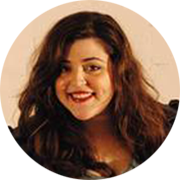
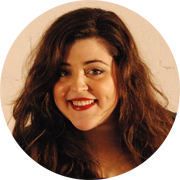
new images for the dancers. new image for company. fixed links to dancer profiles

diff --git a/dancers.html b/dancers.html
@@ -75,25 +75,25 @@
         <div class="row">
 
             <div class="col-lg-3 col-md-6 col-sm-6 centered">
-                <a href="austin-sexton.html"><img class="img-founder" src="img/austin-circle-180.png"></a>
+                <a href="austin-sexton.html"><img class="img-founder" src="img/austin-circle.png"></a>
                 <h3>Austin Sexton</h3>
                 <p>What does this team member do? Keep it short!</p>
             </div>
 
             <div class="col-lg-3 col-md-6 col-sm-6 centered">
-                <a href="jasmine-morgan.html"><img class="img-founder" src="img/jasmine-circle.png"></a>
+                <a href="jasmine-morgan.html"><img class="img-founder" src="img/jasmine-circle-2.png"></a>
                 <h3>Jasmine Morgan</h3>
                 <p>What does this team member do? Keep it short!</p>
             </div>
 
             <div class="col-lg-3 col-md-6 col-sm-6 centered">
-                <a href="gabriell-nomura.html"><img class="img-founder" src="img/gabrielle-circle.png"></a>
+                <a href="gabrielle-nomura.html"><img class="img-founder" src="img/gabrielle-circle.png"></a>
                 <h3>Gabrielle Nomura</h3>
                 <p>What does this team member do? Keep it short!</p>
             </div>
 
             <div class="col-lg-3 col-md-6 col-sm-6 centered">
-                <a href="tess-wendell.html"><img class="img-founder" src="img/tess-circle.png"></a>
+                <a href="tess-wendel.html"><img class="img-founder" src="img/tess-circle-2.png"></a>
                 <h3>Tess Wendel</h3>
                 <p>What does this team member do? Keep it short!</p>
             </div>
@@ -116,7 +116,7 @@
       <div class="row">
 
         <div class="col-md-8">
-          <img class="responsive" src="img/community-performance.jpg">
+          <img class="responsive" src="img/backstage.jpg">
         </div>
 
         <div class="col-md-4">
